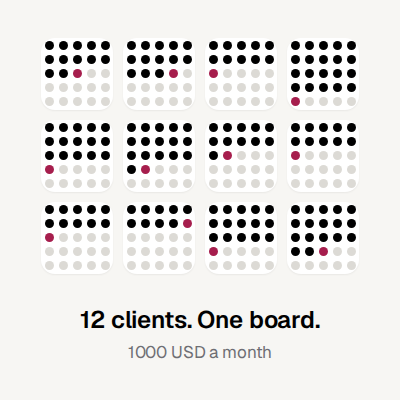
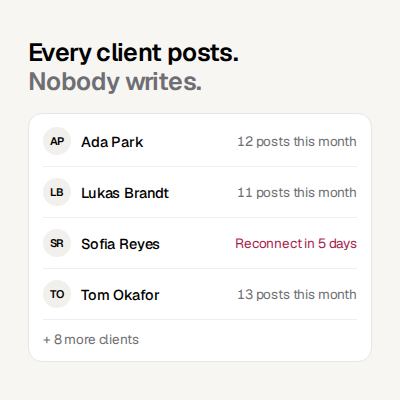
Rework OpenAI ads around four jobs to be done
Each image now shows the job getting done instead of the brand: a week of
posts written, a correction that persists, Stripe and Plausible numbers
turned into a draft, and an agency's client list. render.sh outputs 400x400
and 800x800.

Claude-Session: https://claude.ai/code/session_0125xXz376QRLhfsYiiLxVZr

diff --git a/ads-openai/4-agency.html b/ads-openai/4-agency.html
@@ -1,5 +1,15 @@
 <!doctype html><html><head><meta charset="utf-8"><style>@font-face{font-family:Geist;src:url(geist-400.ttf);font-weight:400}@font-face{font-family:Geist;src:url(geist-500.ttf);font-weight:500}@font-face{font-family:Geist;src:url(geist-600.ttf);font-weight:600}</style><style>
-*{margin:0;padding:0;box-sizing:border-box}html,body{width:400px;height:400px;overflow:hidden}
-body{font-family:Geist,sans-serif;background:#f7f6f3;color:#000;display:flex;flex-direction:column;align-items:center;justify-content:center;letter-spacing:-.01em}
-.g{display:grid;grid-template-columns:repeat(5,var(--s));gap:var(--gap)}.g i{width:var(--s);height:var(--s);border-radius:50%;display:block}.w{display:grid;grid-template-columns:repeat(4,72px);gap:10px}.t{width:72px;height:72px;background:#fff;border-radius:14px;display:flex;align-items:center;justify-content:center;box-shadow:0 1px 2px rgba(0,0,0,.06)}
-.cap{margin-top:30px;font-size:24px;font-weight:600}.sub{margin-top:6px;font-size:17px;color:#6e6e73}</style></head><body><div class="w"><div class="t"><div class="g" style="--s:9px;--gap:5px"><i style="background:#000"></i><i style="background:#000"></i><i style="background:#000"></i><i style="background:#000"></i><i style="background:#000"></i><i style="background:#000"></i><i style="background:#000"></i><i style="background:#000"></i><i style="background:#000"></i><i style="background:#000"></i><i style="background:#000"></i><i style="background:#000"></i><i style="background:#A61E4D"></i><i style="background:#dcdad5"></i><i style="background:#dcdad5"></i><i style="background:#dcdad5"></i><i style="background:#dcdad5"></i><i style="background:#dcdad5"></i><i style="background:#dcdad5"></i><i style="background:#dcdad5"></i><i style="background:#dcdad5"></i><i style="background:#dcdad5"></i><i style="background:#dcdad5"></i><i style="background:#dcdad5"></i><i style="background:#dcdad5"></i></div></div><div class="t"><div class="g" style="--s:9px;--gap:5px"><i style="background:#000"></i><i style="background:#000"></i><i style="background:#000"></i><i style="background:#000"></i><i style="background:#000"></i><i style="background:#000"></i><i style="background:#000"></i><i style="background:#000"></i><i style="background:#000"></i><i style="background:#000"></i><i style="background:#000"></i><i style="background:#000"></i><i style="background:#000"></i><i style="background:#A61E4D"></i><i style="background:#dcdad5"></i><i style="background:#dcdad5"></i><i style="background:#dcdad5"></i><i style="background:#dcdad5"></i><i style="background:#dcdad5"></i><i style="background:#dcdad5"></i><i style="background:#dcdad5"></i><i style="background:#dcdad5"></i><i style="background:#dcdad5"></i><i style="background:#dcdad5"></i><i style="background:#dcdad5"></i></div></div><div class="t"><div class="g" style="--s:9px;--gap:5px"><i style="background:#000"></i><i style="background:#000"></i><i style="background:#000"></i><i style="background:#000"></i><i style="background:#000"></i><i style="background:#000"></i><i style="background:#000"></i><i style="background:#000"></i><i style="background:#000"></i><i style="background:#000"></i><i style="background:#A61E4D"></i><i style="background:#dcdad5"></i><i style="background:#dcdad5"></i><i style="background:#dcdad5"></i><i style="background:#dcdad5"></i><i style="background:#dcdad5"></i><i style="background:#dcdad5"></i><i style="background:#dcdad5"></i><i style="background:#dcdad5"></i><i style="background:#dcdad5"></i><i style="background:#dcdad5"></i><i style="background:#dcdad5"></i><i style="background:#dcdad5"></i><i style="background:#dcdad5"></i><i style="background:#dcdad5"></i></div></div><div class="t"><div class="g" style="--s:9px;--gap:5px"><i style="background:#000"></i><i style="background:#000"></i><i style="background:#000"></i><i style="background:#000"></i><i style="background:#000"></i><i style="background:#000"></i><i style="background:#000"></i><i style="background:#000"></i><i style="background:#000"></i><i style="background:#000"></i><i style="background:#000"></i><i style="background:#000"></i><i style="background:#000"></i><i style="background:#000"></i><i style="background:#000"></i><i style="background:#000"></i><i style="background:#000"></i><i style="background:#000"></i><i style="background:#000"></i><i style="background:#000"></i><i style="background:#A61E4D"></i><i style="background:#dcdad5"></i><i style="background:#dcdad5"></i><i style="background:#dcdad5"></i><i style="background:#dcdad5"></i></div></div><div class="t"><div class="g" style="--s:9px;--gap:5px"><i style="background:#000"></i><i style="background:#000"></i><i style="background:#000"></i><i style="background:#000"></i><i style="background:#000"></i><i style="background:#000"></i><i style="background:#000"></i><i style="background:#000"></i><i style="background:#000"></i><i style="background:#000"></i><i style="background:#000"></i><i style="background:#000"></i><i style="background:#000"></i><i style="background:#000"></i><i style="background:#000"></i><i style="background:#A61E4D"></i><i style="background:#dcdad5"></i><i style="background:#dcdad5"></i><i style="background:#dcdad5"></i><i style="background:#dcdad5"></i><i style="background:#dcdad5"></i><i style="background:#dcdad5"></i><i style="background:#dcdad5"></i><i style="background:#dcdad5"></i><i style="background:#dcdad5"></i></div></div><div class="t"><div class="g" style="--s:9px;--gap:5px"><i style="background:#000"></i><i style="background:#000"></i><i style="background:#000"></i><i style="background:#000"></i><i style="background:#000"></i><i style="background:#000"></i><i style="background:#000"></i><i style="background:#000"></i><i style="background:#000"></i><i style="background:#000"></i><i style="background:#000"></i><i style="background:#000"></i><i style="background:#000"></i><i style="background:#000"></i><i style="background:#000"></i><i style="background:#000"></i><i style="background:#A61E4D"></i><i style="background:#dcdad5"></i><i style="background:#dcdad5"></i><i style="background:#dcdad5"></i><i style="background:#dcdad5"></i><i style="background:#dcdad5"></i><i style="background:#dcdad5"></i><i style="background:#dcdad5"></i><i style="background:#dcdad5"></i></div></div><div class="t"><div class="g" style="--s:9px;--gap:5px"><i style="background:#000"></i><i style="background:#000"></i><i style="background:#000"></i><i style="background:#000"></i><i style="background:#000"></i><i style="background:#000"></i><i style="background:#000"></i><i style="background:#000"></i><i style="background:#000"></i><i style="background:#000"></i><i style="background:#000"></i><i style="background:#A61E4D"></i><i style="background:#dcdad5"></i><i style="background:#dcdad5"></i><i style="background:#dcdad5"></i><i style="background:#dcdad5"></i><i style="background:#dcdad5"></i><i style="background:#dcdad5"></i><i style="background:#dcdad5"></i><i style="background:#dcdad5"></i><i style="background:#dcdad5"></i><i style="background:#dcdad5"></i><i style="background:#dcdad5"></i><i style="background:#dcdad5"></i><i style="background:#dcdad5"></i></div></div><div class="t"><div class="g" style="--s:9px;--gap:5px"><i style="background:#000"></i><i style="background:#000"></i><i style="background:#000"></i><i style="background:#000"></i><i style="background:#000"></i><i style="background:#000"></i><i style="background:#000"></i><i style="background:#000"></i><i style="background:#000"></i><i style="background:#000"></i><i style="background:#A61E4D"></i><i style="background:#dcdad5"></i><i style="background:#dcdad5"></i><i style="background:#dcdad5"></i><i style="background:#dcdad5"></i><i style="background:#dcdad5"></i><i style="background:#dcdad5"></i><i style="background:#dcdad5"></i><i style="background:#dcdad5"></i><i style="background:#dcdad5"></i><i style="background:#dcdad5"></i><i style="background:#dcdad5"></i><i style="background:#dcdad5"></i><i style="background:#dcdad5"></i><i style="background:#dcdad5"></i></div></div><div class="t"><div class="g" style="--s:9px;--gap:5px"><i style="background:#000"></i><i style="background:#000"></i><i style="background:#000"></i><i style="background:#000"></i><i style="background:#000"></i><i style="background:#000"></i><i style="background:#000"></i><i style="background:#000"></i><i style="background:#000"></i><i style="background:#000"></i><i style="background:#A61E4D"></i><i style="background:#dcdad5"></i><i style="background:#dcdad5"></i><i style="background:#dcdad5"></i><i style="background:#dcdad5"></i><i style="background:#dcdad5"></i><i style="background:#dcdad5"></i><i style="background:#dcdad5"></i><i style="background:#dcdad5"></i><i style="background:#dcdad5"></i><i style="background:#dcdad5"></i><i style="background:#dcdad5"></i><i style="background:#dcdad5"></i><i style="background:#dcdad5"></i><i style="background:#dcdad5"></i></div></div><div class="t"><div class="g" style="--s:9px;--gap:5px"><i style="background:#000"></i><i style="background:#000"></i><i style="background:#000"></i><i style="background:#000"></i><i style="background:#000"></i><i style="background:#000"></i><i style="background:#000"></i><i style="background:#000"></i><i style="background:#000"></i><i style="background:#A61E4D"></i><i style="background:#dcdad5"></i><i style="background:#dcdad5"></i><i style="background:#dcdad5"></i><i style="background:#dcdad5"></i><i style="background:#dcdad5"></i><i style="background:#dcdad5"></i><i style="background:#dcdad5"></i><i style="background:#dcdad5"></i><i style="background:#dcdad5"></i><i style="background:#dcdad5"></i><i style="background:#dcdad5"></i><i style="background:#dcdad5"></i><i style="background:#dcdad5"></i><i style="background:#dcdad5"></i><i style="background:#dcdad5"></i></div></div><div class="t"><div class="g" style="--s:9px;--gap:5px"><i style="background:#000"></i><i style="background:#000"></i><i style="background:#000"></i><i style="background:#000"></i><i style="background:#000"></i><i style="background:#000"></i><i style="background:#000"></i><i style="background:#000"></i><i style="background:#000"></i><i style="background:#000"></i><i style="background:#000"></i><i style="background:#000"></i><i style="background:#000"></i><i style="background:#000"></i><i style="background:#000"></i><i style="background:#A61E4D"></i><i style="background:#dcdad5"></i><i style="background:#dcdad5"></i><i style="background:#dcdad5"></i><i style="background:#dcdad5"></i><i style="background:#dcdad5"></i><i style="background:#dcdad5"></i><i style="background:#dcdad5"></i><i style="background:#dcdad5"></i><i style="background:#dcdad5"></i></div></div><div class="t"><div class="g" style="--s:9px;--gap:5px"><i style="background:#000"></i><i style="background:#000"></i><i style="background:#000"></i><i style="background:#000"></i><i style="background:#000"></i><i style="background:#000"></i><i style="background:#000"></i><i style="background:#000"></i><i style="background:#000"></i><i style="background:#000"></i><i style="background:#000"></i><i style="background:#000"></i><i style="background:#000"></i><i style="background:#000"></i><i style="background:#000"></i><i style="background:#000"></i><i style="background:#000"></i><i style="background:#A61E4D"></i><i style="background:#dcdad5"></i><i style="background:#dcdad5"></i><i style="background:#dcdad5"></i><i style="background:#dcdad5"></i><i style="background:#dcdad5"></i><i style="background:#dcdad5"></i><i style="background:#dcdad5"></i></div></div></div><div class="cap">12 clients. One board.</div><div class="sub">1000 USD a month</div></body></html>
+*{margin:0;padding:0;box-sizing:border-box}
+html,body{width:400px;height:400px;overflow:hidden}
+body{font-family:Geist,sans-serif;background:#f7f6f3;color:#000;padding:28px;
+  display:flex;flex-direction:column;justify-content:center;letter-spacing:-.01em;font-feature-settings:"tnum"}
+.h{font-size:25px;font-weight:600;letter-spacing:-.025em;line-height:1.15}
+.s{font-size:15px;color:#6e6e73;margin-top:5px}
+.card{background:#fff;border:1px solid #e6e6e6;border-radius:14px}
+.grey{color:#6e6e73}.plum{color:#a61e4d}
+.card{margin-top:18px;padding:2px 14px}
+.r{display:flex;align-items:center;gap:10px;padding:11px 0;border-top:1px solid #eeeeee;font-size:14.5px}
+.r:first-child{border-top:0}
+.a{width:28px;height:28px;border-radius:50%;background:#f1f0ec;font-size:11px;font-weight:600;display:flex;align-items:center;justify-content:center;flex:none}
+.n{font-weight:500;flex:1}.x{font-size:13.5px}
+.more{font-size:13.5px;color:#6e6e73;padding:10px 0 11px;border-top:1px solid #eeeeee}</style></head><body><div class="h">Every client posts.<br><span class="grey">Nobody writes.</span></div><div class="card"><div class="r"><span class="a">AP</span><span class="n">Ada Park</span><span class="x grey">12 posts this month</span></div><div class="r"><span class="a">LB</span><span class="n">Lukas Brandt</span><span class="x grey">11 posts this month</span></div><div class="r"><span class="a">SR</span><span class="n">Sofia Reyes</span><span class="x plum">Reconnect in 5 days</span></div><div class="r"><span class="a">TO</span><span class="n">Tom Okafor</span><span class="x grey">13 posts this month</span></div><div class="more">+ 8 more clients</div></div></body></html>

diff --git a/ads-openai/1-week.html b/ads-openai/1-week.html
@@ -1,0 +1,15 @@
+<!doctype html><html><head><meta charset="utf-8"><style>@font-face{font-family:Geist;src:url(geist-400.ttf);font-weight:400}@font-face{font-family:Geist;src:url(geist-500.ttf);font-weight:500}@font-face{font-family:Geist;src:url(geist-600.ttf);font-weight:600}</style><style>
+*{margin:0;padding:0;box-sizing:border-box}
+html,body{width:400px;height:400px;overflow:hidden}
+body{font-family:Geist,sans-serif;background:#f7f6f3;color:#000;padding:28px;
+  display:flex;flex-direction:column;justify-content:center;letter-spacing:-.01em;font-feature-settings:"tnum"}
+.h{font-size:25px;font-weight:600;letter-spacing:-.025em;line-height:1.15}
+.s{font-size:15px;color:#6e6e73;margin-top:5px}
+.card{background:#fff;border:1px solid #e6e6e6;border-radius:14px}
+.grey{color:#6e6e73}.plum{color:#a61e4d}
+.card{margin-top:20px;padding:4px 16px}
+.r{display:flex;gap:12px;align-items:baseline;padding:12px 0;border-top:1px solid #eeeeee;font-size:14.5px}
+.r:first-child{border-top:0}.d{width:30px;color:#6e6e73;flex:none}
+.t{white-space:nowrap;overflow:hidden;text-overflow:ellipsis}
+.f{margin-top:14px;font-size:14px;display:flex;align-items:center;gap:8px}
+.f i{width:8px;height:8px;border-radius:50%;background:#a61e4d;display:block}</style></head><body><div class="h">Next week on LinkedIn,<br>already written</div><div class="card"><div class="r"><span class="d">Mon</span><span class="t">How Fernhill cut onboarding to 3 days</span></div><div class="r"><span class="d">Tue</span><span class="t">The pricing test Fernhill ran for 6 weeks</span></div><div class="r"><span class="d">Wed</span><span class="t">4 questions Fernhill asks every new hire</span></div><div class="r"><span class="d">Thu</span><span class="t">What 212 support tickets taught Fernhill</span></div><div class="r"><span class="d">Fri</span><span class="t">Fernhill's checklist for a first sales call</span></div></div><div class="f"><i></i>5 posts scheduled, 09:00 each day</div></body></html>

diff --git a/ads-openai/3-numbers.html b/ads-openai/3-numbers.html
@@ -1,0 +1,14 @@
+<!doctype html><html><head><meta charset="utf-8"><style>@font-face{font-family:Geist;src:url(geist-400.ttf);font-weight:400}@font-face{font-family:Geist;src:url(geist-500.ttf);font-weight:500}@font-face{font-family:Geist;src:url(geist-600.ttf);font-weight:600}</style><style>
+*{margin:0;padding:0;box-sizing:border-box}
+html,body{width:400px;height:400px;overflow:hidden}
+body{font-family:Geist,sans-serif;background:#f7f6f3;color:#000;padding:28px;
+  display:flex;flex-direction:column;justify-content:center;letter-spacing:-.01em;font-feature-settings:"tnum"}
+.h{font-size:25px;font-weight:600;letter-spacing:-.025em;line-height:1.15}
+.s{font-size:15px;color:#6e6e73;margin-top:5px}
+.card{background:#fff;border:1px solid #e6e6e6;border-radius:14px}
+.grey{color:#6e6e73}.plum{color:#a61e4d}
+.src{margin-top:18px;display:flex;gap:8px}
+.m{flex:1;padding:12px 14px}.m .k{font-size:12.5px;color:#6e6e73}.m .v{font-size:21px;font-weight:600;margin-top:3px;letter-spacing:-.02em}
+.m .v small{font-size:13px;color:#a61e4d;font-weight:500;margin-left:4px}
+.arr{text-align:center;color:#b4b4b8;font-size:18px;line-height:1;margin:8px 0}
+.post{padding:16px;font-size:15px;line-height:1.45}.post .by{font-size:12.5px;color:#6e6e73;margin-bottom:6px}</style></head><body><div class="h">Your numbers,<br>written as posts</div><div class="src"><div class="card m"><div class="k">Stripe · MRR</div><div class="v">4,210 EUR<small>+18%</small></div></div><div class="card m"><div class="k">Plausible · visitors</div><div class="v">9,840<small>+31%</small></div></div></div><div class="arr">↓</div><div class="card post"><div class="by">Draft · Thu 09:00</div>Fernhill grew MRR 18% in September, to 4,210 EUR. Three changes did most of it.</div></body></html>

diff --git a/ads-openai/2-voice.html b/ads-openai/2-voice.html
@@ -1,0 +1,14 @@
+<!doctype html><html><head><meta charset="utf-8"><style>@font-face{font-family:Geist;src:url(geist-400.ttf);font-weight:400}@font-face{font-family:Geist;src:url(geist-500.ttf);font-weight:500}@font-face{font-family:Geist;src:url(geist-600.ttf);font-weight:600}</style><style>
+*{margin:0;padding:0;box-sizing:border-box}
+html,body{width:400px;height:400px;overflow:hidden}
+body{font-family:Geist,sans-serif;background:#f7f6f3;color:#000;padding:28px;
+  display:flex;flex-direction:column;justify-content:center;letter-spacing:-.01em;font-feature-settings:"tnum"}
+.h{font-size:25px;font-weight:600;letter-spacing:-.025em;line-height:1.15}
+.s{font-size:15px;color:#6e6e73;margin-top:5px}
+.card{background:#fff;border:1px solid #e6e6e6;border-radius:14px}
+.grey{color:#6e6e73}.plum{color:#a61e4d}
+.card{margin-top:18px;padding:16px;font-size:15px;line-height:1.45}
+del{color:#b4b4b8;text-decoration-thickness:1.5px}ins{text-decoration:none;background:#fbecf1;color:#a61e4d;padding:0 3px;border-radius:4px}
+.c{margin-top:10px;margin-left:44px;background:#000;color:#fff;border-radius:14px 14px 4px 14px;padding:10px 14px;font-size:14.5px}
+.p{margin-top:10px;padding:12px 14px;font-size:14px;line-height:1.35}
+.p b{font-weight:600}</style></head><body><div class="h">Correct it once.<br><span class="grey">It remembers.</span></div><div class="card">Fernhill <del>is revolutionizing</del> <ins>cut</ins> invoice reconciliation <del>with a game-changing</del> <ins>from 2 days to 40 minutes with one</ins> workflow.</div><div class="c">No hype words. Give the number.</div><div class="card p"><b>Voice rule updated.</b> <span class="grey">Every future post follows it.</span></div></body></html>

diff --git a/ads-openai/gen.py b/ads-openai/gen.py
@@ -1,38 +1,81 @@
-import random
-FONT='<style>@font-face{font-family:Geist;src:url(geist-400.ttf);font-weight:400}@font-face{font-family:Geist;src:url(geist-500.ttf);font-weight:500}@font-face{font-family:Geist;src:url(geist-600.ttf);font-weight:600}</style>'
-BASE='''<!doctype html><html><head><meta charset="utf-8">%s<style>
-*{margin:0;padding:0;box-sizing:border-box}html,body{width:400px;height:400px;overflow:hidden}
-body{font-family:Geist,sans-serif;background:#f7f6f3;color:#000;display:flex;flex-direction:column;align-items:center;justify-content:center;letter-spacing:-.01em}
+"""Renders the four OpenAI ads creatives. python3 gen.py, then render.sh."""
+FONT = '<style>' + ''.join(
+    '@font-face{font-family:Geist;src:url(geist-%d.ttf);font-weight:%d}' % (w, w)
+    for w in (400, 500, 600)) + '</style>'
+BASE = '''<!doctype html><html><head><meta charset="utf-8">%s<style>
+*{margin:0;padding:0;box-sizing:border-box}
+html,body{width:400px;height:400px;overflow:hidden}
+body{font-family:Geist,sans-serif;background:#f7f6f3;color:#000;padding:28px;
+  display:flex;flex-direction:column;justify-content:center;letter-spacing:-.01em;font-feature-settings:"tnum"}
+.h{font-size:25px;font-weight:600;letter-spacing:-.025em;line-height:1.15}
+.s{font-size:15px;color:#6e6e73;margin-top:5px}
+.card{background:#fff;border:1px solid #e6e6e6;border-radius:14px}
+.grey{color:#6e6e73}.plum{color:#a61e4d}
 %s</style></head><body>%s</body></html>'''
-def grid(n_ink, size, gap, today=True, hair='#dcdad5', ink='#000', total=25):
-    dots=[]
-    for i in range(total):
-        c = ink if i<n_ink else ('#A61E4D' if (today and i==n_ink) else hair)
-        dots.append(f'<i style="background:{c}"></i>')
-    return f'<div class="g" style="--s:{size}px;--gap:{gap}px">{"".join(dots)}</div>'
-GCSS='.g{display:grid;grid-template-columns:repeat(5,var(--s));gap:var(--gap)}.g i{width:var(--s);height:var(--s);border-radius:50%;display:block}'
 
-ads={}
-# 1 streak
-ads['1-streak']=(GCSS+'.cap{margin-top:34px;font-size:26px;font-weight:600}.sub{margin-top:6px;font-size:17px;color:#6e6e73}',
- grid(18,30,16)+'<div class="cap">19 days in a row</div><div class="sub">on LinkedIn</div>')
-# 2 approval card
-ads['2-approve']=('''.card{width:320px;background:#fff;border-radius:18px;padding:24px;box-shadow:0 1px 0 rgba(0,0,0,.04),0 12px 32px rgba(0,0,0,.08)}
-.meta{font-size:14px;color:#6e6e73;display:flex;justify-content:space-between}.meta b{color:#A61E4D;font-weight:500}
-.l{height:11px;border-radius:6px;background:#e8e6e1;margin-top:12px}.first{margin-top:20px;background:#000;height:13px;width:88%}
-.acts{display:flex;gap:8px;margin-top:26px}.acts span{flex:1;text-align:center;font-size:15px;font-weight:500;padding:11px 0;border-radius:999px;border:1px solid #dcdad5}
-.acts .a{background:#A61E4D;border-color:#A61E4D;color:#fff}''',
- '<div class="card"><div class="meta"><span>Draft</span><b>Tue 09:00</b></div><div class="l first"></div><div class="l"></div><div class="l" style="width:94%"></div><div class="l" style="width:61%"></div><div class="acts"><span class="a">Approve</span><span>Revise</span><span>Reject</span></div></div>')
-# 3 price on ink
-ads['3-price']=('''body{background:#000;color:#fff;align-items:flex-start;padding:0 44px;background-image:radial-gradient(circle at 105% -5%,rgba(166,30,77,.55),transparent 55%)}
-.p{white-space:nowrap;font-size:84px;font-weight:600;letter-spacing:-.045em;line-height:1}.u{font-size:34px;font-weight:500;color:#98989d;margin-top:10px}
-.s{margin-top:40px;font-size:19px;color:#fff;display:flex;align-items:center;gap:10px}.s i{width:12px;height:12px;border-radius:50%;background:#f2799f;display:block}''',
- '<div class="p">100 USD</div><div class="u">a month</div><div class="s"><i></i>A LinkedIn post, most days</div>')
-# 4 agency
-random.seed(4)
-tiles=''.join('<div class="t">'+grid(random.randint(9,20),9,5)+'</div>' for _ in range(12))
-ads['4-agency']=(GCSS+'''.w{display:grid;grid-template-columns:repeat(4,72px);gap:10px}.t{width:72px;height:72px;background:#fff;border-radius:14px;display:flex;align-items:center;justify-content:center;box-shadow:0 1px 2px rgba(0,0,0,.06)}
-.cap{margin-top:30px;font-size:24px;font-weight:600}.sub{margin-top:6px;font-size:17px;color:#6e6e73}''',
- '<div class="w">'+tiles+'</div><div class="cap">12 clients. One board.</div><div class="sub">1000 USD a month</div>')
-for k,(css,body) in ads.items():
-    open(f'{k}.html','w').write(BASE%(FONT,css,body))
+ads = {}
+
+# JTBD 1. Founder: stay visible to buyers without spending hours writing.
+days = [("Mon", "How Fernhill cut onboarding to 3 days"),
+        ("Tue", "The pricing test Fernhill ran for 6 weeks"),
+        ("Wed", "4 questions Fernhill asks every new hire"),
+        ("Thu", "What 212 support tickets taught Fernhill"),
+        ("Fri", "Fernhill's checklist for a first sales call")]
+rows = ''.join(
+    f'<div class="r"><span class="d">{d}</span><span class="t">{t}</span></div>'
+    for d, t in days)
+ads['1-week'] = ('''.card{margin-top:20px;padding:4px 16px}
+.r{display:flex;gap:12px;align-items:baseline;padding:12px 0;border-top:1px solid #eeeeee;font-size:14.5px}
+.r:first-child{border-top:0}.d{width:30px;color:#6e6e73;flex:none}
+.t{white-space:nowrap;overflow:hidden;text-overflow:ellipsis}
+.f{margin-top:14px;font-size:14px;display:flex;align-items:center;gap:8px}
+.f i{width:8px;height:8px;border-radius:50%;background:#a61e4d;display:block}''',
+    '<div class="h">Next week on LinkedIn,<br>already written</div>'
+    f'<div class="card">{rows}</div>'
+    '<div class="f"><i></i>5 posts scheduled, 09:00 each day</div>')
+
+# JTBD 2. Anyone burned by AI writing: make it sound like me, and stay that way.
+ads['2-voice'] = ('''.card{margin-top:18px;padding:16px;font-size:15px;line-height:1.45}
+del{color:#b4b4b8;text-decoration-thickness:1.5px}ins{text-decoration:none;background:#fbecf1;color:#a61e4d;padding:0 3px;border-radius:4px}
+.c{margin-top:10px;margin-left:44px;background:#000;color:#fff;border-radius:14px 14px 4px 14px;padding:10px 14px;font-size:14.5px}
+.p{margin-top:10px;padding:12px 14px;font-size:14px;line-height:1.35}
+.p b{font-weight:600}''',
+    '<div class="h">Correct it once.<br><span class="grey">It remembers.</span></div>'
+    '<div class="card">Fernhill <del>is revolutionizing</del> <ins>cut</ins> invoice '
+    'reconciliation <del>with a game-changing</del> <ins>from 2 days to 40 minutes with one</ins> workflow.</div>'
+    '<div class="c">No hype words. Give the number.</div>'
+    '<div class="card p"><b>Voice rule updated.</b> <span class="grey">Every future post follows it.</span></div>')
+
+# JTBD 3. Founder with traction: turn real numbers into credible posts.
+ads['3-numbers'] = ('''.src{margin-top:18px;display:flex;gap:8px}
+.m{flex:1;padding:12px 14px}.m .k{font-size:12.5px;color:#6e6e73}.m .v{font-size:21px;font-weight:600;margin-top:3px;letter-spacing:-.02em}
+.m .v small{font-size:13px;color:#a61e4d;font-weight:500;margin-left:4px}
+.arr{text-align:center;color:#b4b4b8;font-size:18px;line-height:1;margin:8px 0}
+.post{padding:16px;font-size:15px;line-height:1.45}.post .by{font-size:12.5px;color:#6e6e73;margin-bottom:6px}''',
+    '<div class="h">Your numbers,<br>written as posts</div>'
+    '<div class="src"><div class="card m"><div class="k">Stripe · MRR</div><div class="v">4,210 EUR<small>+18%</small></div></div>'
+    '<div class="card m"><div class="k">Plausible · visitors</div><div class="v">9,840<small>+31%</small></div></div></div>'
+    '<div class="arr">↓</div>'
+    '<div class="card post"><div class="by">Draft · Thu 09:00</div>Fernhill grew MRR 18% in September, '
+    'to 4,210 EUR. Three changes did most of it.</div>')
+
+# JTBD 4. Agency: deliver LinkedIn for many clients without a writer per client.
+clients = [("AP", "Ada Park", "12 posts this month", False),
+           ("LB", "Lukas Brandt", "11 posts this month", False),
+           ("SR", "Sofia Reyes", "Reconnect in 5 days", True),
+           ("TO", "Tom Okafor", "13 posts this month", False)]
+crow = ''.join(
+    f'<div class="r"><span class="a">{i}</span><span class="n">{n}</span>'
+    f'<span class="{"x plum" if w else "x grey"}">{s}</span></div>'
+    for i, n, s, w in clients)
+ads['4-agency'] = ('''.card{margin-top:18px;padding:2px 14px}
+.r{display:flex;align-items:center;gap:10px;padding:11px 0;border-top:1px solid #eeeeee;font-size:14.5px}
+.r:first-child{border-top:0}
+.a{width:28px;height:28px;border-radius:50%;background:#f1f0ec;font-size:11px;font-weight:600;display:flex;align-items:center;justify-content:center;flex:none}
+.n{font-weight:500;flex:1}.x{font-size:13.5px}
+.more{font-size:13.5px;color:#6e6e73;padding:10px 0 11px;border-top:1px solid #eeeeee}''',
+    '<div class="h">Every client posts.<br><span class="grey">Nobody writes.</span></div>'
+    f'<div class="card">{crow}<div class="more">+ 8 more clients</div></div>')
+
+for k, (css, body) in ads.items():
+    open(f'{k}.html', 'w').write(BASE % (FONT, css, body))
